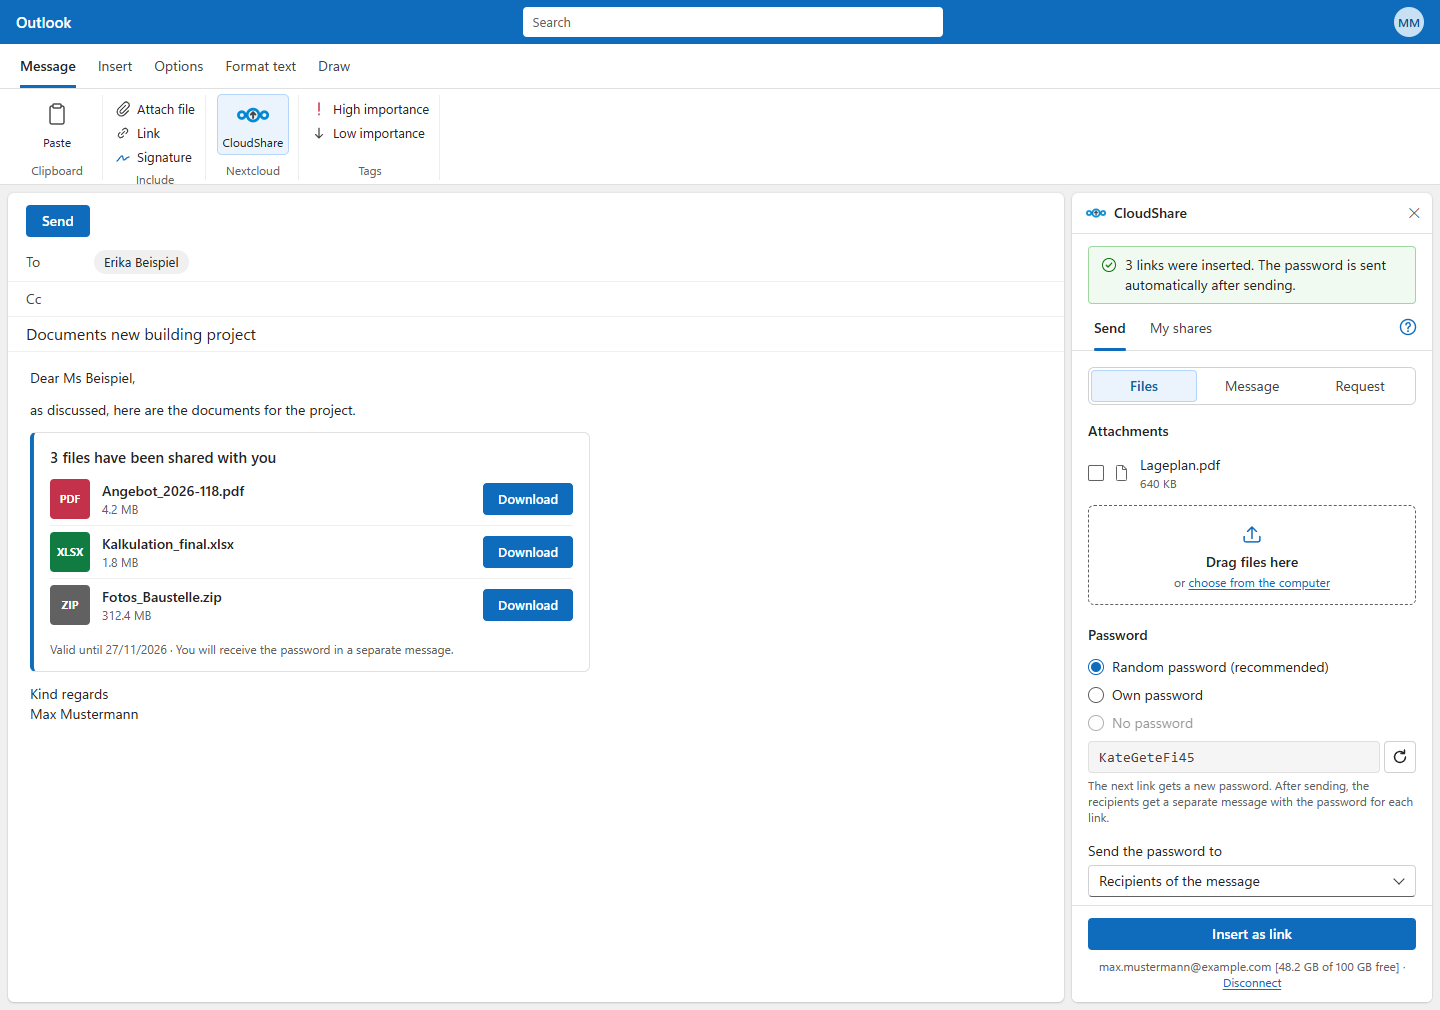
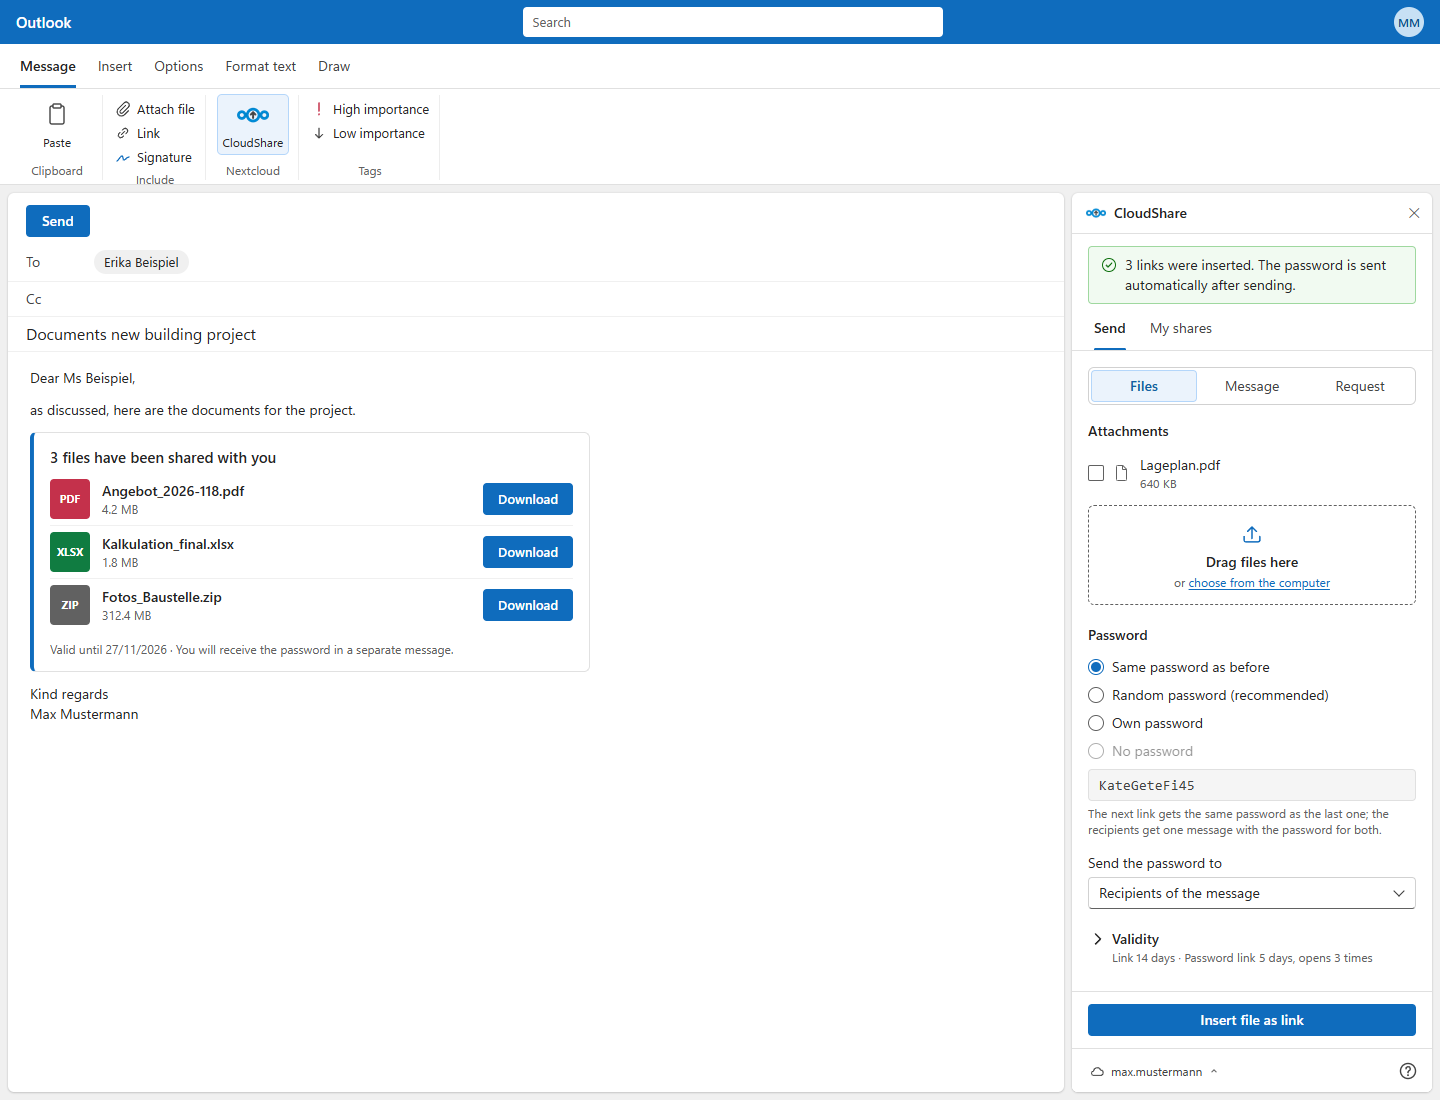
Compose mockup with the current pane (#69)
outlook-compose.png: no "?" in the tab bar, the account bar at the bottom
("?" at the right), "Same password as before" preselected after three
links, "Insert file as link"; rendered taller so "Validity" fits.

diff --git a/docs/mockups/compose-send.html b/docs/mockups/compose-send.html
@@ -56,7 +56,6 @@
               <button type="button" class="tab" aria-selected="true">Send</button>
               <button type="button" class="tab" aria-selected="false">My shares</button>
             </div>
-            <button type="button" class="btn btn-icon btn-subtle help-toggle" aria-label="Help"><svg class="icon" viewBox="0 0 20 20" aria-hidden="true"><circle cx="10" cy="10" r="7.5" fill="none" stroke="currentColor" stroke-width="1.4"/><path d="M7.9 7.8a2.2 2.2 0 1 1 3 2.1c-.6.3-.9.7-.9 1.3v.5" fill="none" stroke="currentColor" stroke-width="1.4" stroke-linecap="round"/><circle cx="10" cy="14.2" r=".9" fill="currentColor"/></svg></button>
           </div>
           <div class="panel">
             <div class="content">
@@ -75,14 +74,14 @@
 
               <h2 class="section-title" id="password-label">Password</h2>
               <div class="field">
-                <label class="radio"><input type="radio" checked><span class="dot"></span><span>Random password (recommended)</span></label>
+                <label class="radio"><input type="radio" checked><span class="dot"></span><span>Same password as before</span></label>
+                <label class="radio"><input type="radio"><span class="dot"></span><span>Random password (recommended)</span></label>
                 <label class="radio"><input type="radio"><span class="dot"></span><span>Own password</span></label>
                 <label class="radio"><input type="radio" disabled><span class="dot"></span><span>No password</span></label>
                 <div class="input-group">
                   <input type="text" class="input mono" value="KateGeteFi45" readonly>
-                  <button type="button" class="btn btn-icon"><svg class="icon" viewBox="0 0 20 20"><path d="M15.5 10a5.5 5.5 0 1 1-1.6-3.9M14.5 3v3.5H11" fill="none" stroke="currentColor" stroke-width="1.5" stroke-linecap="round" stroke-linejoin="round"/></svg></button>
                 </div>
-                <p class="hint">The next link gets a new password. After sending, the recipients get a separate message with the password for each link.</p>
+                <p class="hint">The next link gets the same password as the last one; the recipients get one message with the password for both.</p>
               </div>
               <div class="field">
                 <label class="label">Send the password to</label>
@@ -93,10 +92,17 @@
               </div>
             </div>
             <footer class="footer">
-              <button type="button" class="btn btn-primary btn-block">Insert as link</button>
-              <p class="caption account">max.mustermann@example.com [48.2 GB of 100 GB free] · <a href="#">Disconnect</a></p>
+              <button type="button" class="btn btn-primary btn-block">Insert file as link</button>
             </footer>
           </div>
+          <footer class="account-bar">
+            <div class="account-menu-wrap">
+              <button type="button" class="account-toggle"><svg class="icon" viewBox="0 0 20 20" aria-hidden="true"><path d="M6 15.5h8.2a3.3 3.3 0 0 0 .4-6.6 4.6 4.6 0 0 0-8.9 1.2A2.7 2.7 0 0 0 6 15.5Z" fill="none" stroke="currentColor" stroke-width="1.3" stroke-linejoin="round"/></svg><span class="account-name">max.mustermann</span><svg class="chevron" viewBox="0 0 20 20" aria-hidden="true"><path d="M6 12l4-4 4 4" fill="none" stroke="currentColor" stroke-width="1.4" stroke-linecap="round" stroke-linejoin="round"/></svg></button>
+            </div>
+            <div class="account-actions">
+              <button type="button" class="btn btn-icon btn-subtle" aria-label="Help"><svg class="icon" viewBox="0 0 20 20" aria-hidden="true"><circle cx="10" cy="10" r="7.5" fill="none" stroke="currentColor" stroke-width="1.4"/><path d="M7.9 7.8a2.2 2.2 0 1 1 3 2.1c-.6.3-.9.7-.9 1.3v.5" fill="none" stroke="currentColor" stroke-width="1.4" stroke-linecap="round"/><circle cx="10" cy="14.2" r=".9" fill="currentColor"/></svg></button>
+            </div>
+          </footer>
         </section>
       </main>
     </div>

diff --git a/README.md b/README.md
@@ -509,7 +509,7 @@ swallows the screenshot):
 $edge = "C:\Program Files (x86)\Microsoft\Edge\Application\msedge.exe"
 $repo = (Get-Location).Path; $url = "file:///" + ($repo -replace '\\','/') + "/docs/mockups"
 $opts = "--headless=new", "--hide-scrollbars", "--user-data-dir=$env:TEMP\cloudshare-edge"
-foreach ($shot in @(("outlook-compose", "compose-send", "1440,1010"), ("mail-received", "mail-received", "760,706"),
+foreach ($shot in @(("outlook-compose", "compose-send", "1440,1100"), ("mail-received", "mail-received", "760,706"),
                     ("password-mail", "password-mail", "760,676"), ("sender-notices", "sender-notices", "760,942"))) {
   Start-Process -Wait $edge ($opts + "--window-size=$($shot[2])", "--screenshot=$repo\docs\images\$($shot[0]).png", "$url/$($shot[1]).html")
 }
